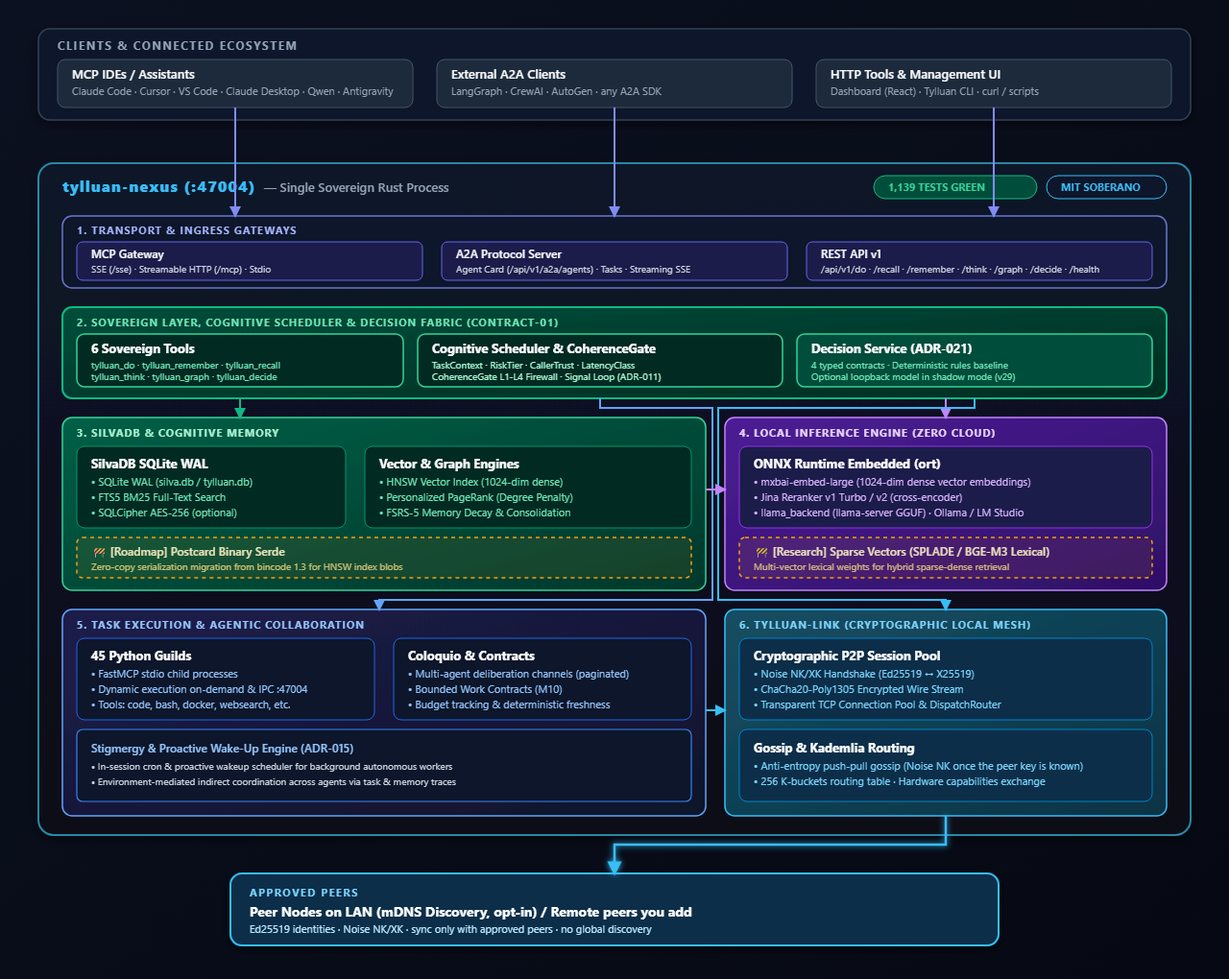
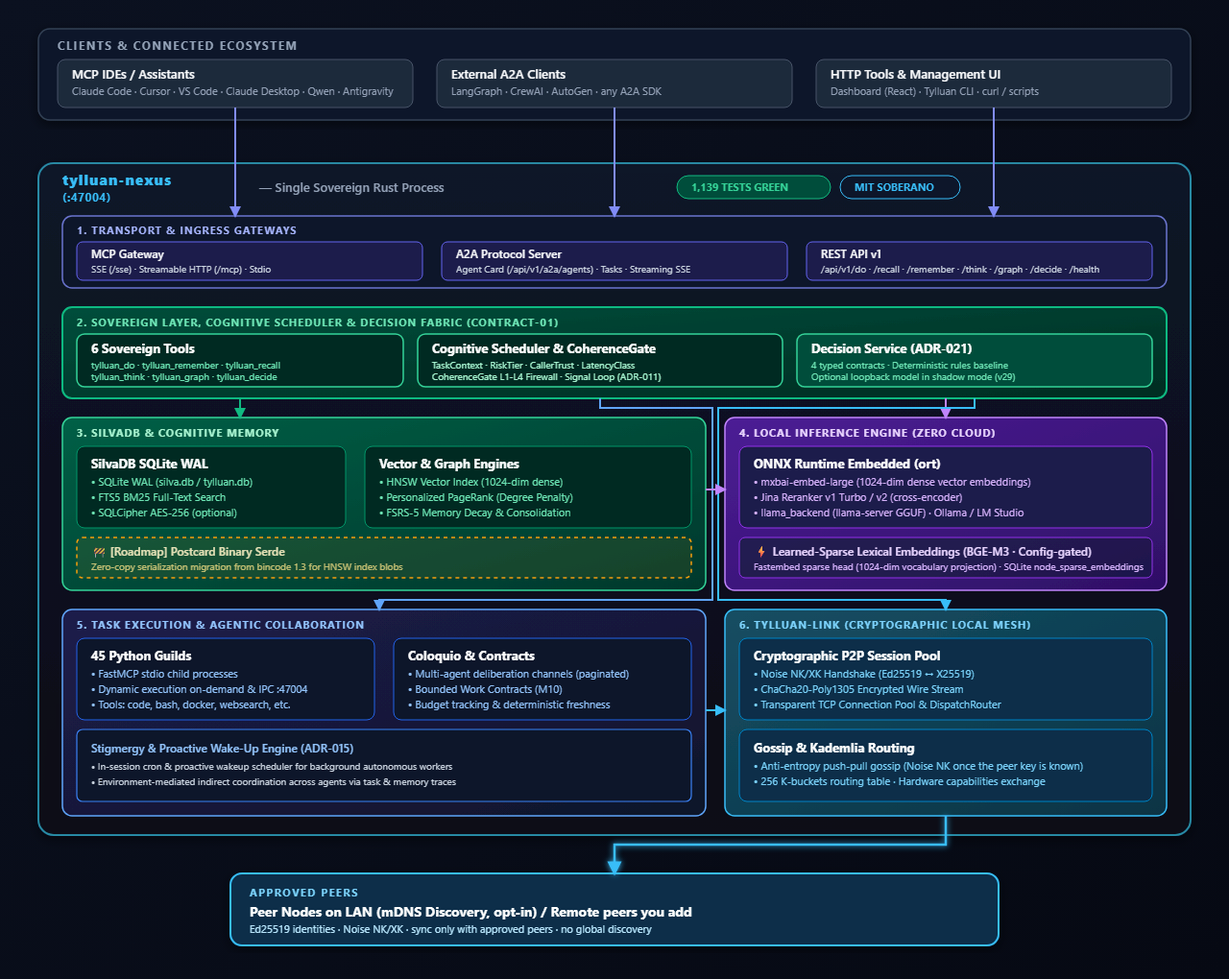
docs(diagrams): Sparse Vectors marked config-gated, PNG/SVG/interactive spec regenerated (G3)
Postcard Serde stays [Roadmap]. architecture.png regenerated to match the SVG. G5 arrow crossing the
nexus title is not resolved.

Claude-Session: https://claude.ai/code/session_01Gc82k4JYJCSQbgUupKZSrL

Changed region(s): [[0.5938, 0.5471, 0.9375, 0.6078], [0.5312, 0.152, 0.9375, 0.2127], [0.0312, 0.1824, 0.375, 0.2127]]

diff --git a/docs/assets/architecture_interactive.html b/docs/assets/architecture_interactive.html
@@ -4961,7 +4961,7 @@
     </div>
 
     <script id="archify-guided-views-data" type="application/json">[]</script>
-    <script id="archify-source-evidence-data" type="application/json">{"schemaVersion":1,"verified":true,"repository":{"url":"https://github.com/Forja-orca/tylluan","revision":"743a7069df6fac1baa28683ab21221e3b3f44823","shortRevision":"743a706"},"referenceCount":10,"nodes":{"auth_boundary":[{"path":"crates/tylluan-kernel/src/transport/http/auth.rs","label":"operator vs agent class","href":"https://github.com/Forja-orca/tylluan/blob/743a7069df6fac1baa28683ab21221e3b3f44823/crates/tylluan-kernel/src/transport/http/auth.rs"}],"tools6":[{"path":"crates/tylluan-kernel/src/transport/server/tools.rs","label":"all_tools()","href":"https://github.com/Forja-orca/tylluan/blob/743a7069df6fac1baa28683ab21221e3b3f44823/crates/tylluan-kernel/src/transport/server/tools.rs"}],"matcher":[{"path":"crates/tylluan-kernel/src/router/matcher.rs","line":160,"label":"GuildMatcher","href":"https://github.com/Forja-orca/tylluan/blob/743a7069df6fac1baa28683ab21221e3b3f44823/crates/tylluan-kernel/src/router/matcher.rs#L160"}],"decision_svc":[{"path":"crates/tylluan-kernel/src/router/decision/service.rs","line":85,"label":"DecisionService::decide","href":"https://github.com/Forja-orca/tylluan/blob/743a7069df6fac1baa28683ab21221e3b3f44823/crates/tylluan-kernel/src/router/decision/service.rs#L85"}],"guilds46":[{"path":"guilds/core/coloquio.py","label":"guilds/core/","href":"https://github.com/Forja-orca/tylluan/blob/743a7069df6fac1baa28683ab21221e3b3f44823/guilds/core/coloquio.py"}],"embed_engine":[{"path":"crates/tylluan-kernel/src/router/embeddings.rs","line":186,"label":"EmbeddingEngine","href":"https://github.com/Forja-orca/tylluan/blob/743a7069df6fac1baa28683ab21221e3b3f44823/crates/tylluan-kernel/src/router/embeddings.rs#L186"}],"inf_budget":[{"path":"crates/tylluan-kernel/src/memory/inference_budget.rs","label":"bounded queue + 503","href":"https://github.com/Forja-orca/tylluan/blob/743a7069df6fac1baa28683ab21221e3b3f44823/crates/tylluan-kernel/src/memory/inference_budget.rs"}],"sqlite_wal":[{"path":"crates/tylluan-kernel/src/memory/silva/graph.rs","label":"PageRank+FSRS","href":"https://github.com/Forja-orca/tylluan/blob/743a7069df6fac1baa28683ab21221e3b3f44823/crates/tylluan-kernel/src/memory/silva/graph.rs"}],"cap_registry":[{"path":"crates/tylluan-kernel/src/registry/capability_registry.rs","line":71,"label":"build_registry()","href":"https://github.com/Forja-orca/tylluan/blob/743a7069df6fac1baa28683ab21221e3b3f44823/crates/tylluan-kernel/src/registry/capability_registry.rs#L71"}],"gossip_dht":[{"path":"crates/tylluan-kernel/src/federation/permissions.rs","label":"per-peer, per-space ACL (deny-by-default)","href":"https://github.com/Forja-orca/tylluan/blob/743a7069df6fac1baa28683ab21221e3b3f44823/crates/tylluan-kernel/src/federation/permissions.rs"}]}}</script>
+    <script id="archify-source-evidence-data" type="application/json">{"schemaVersion":1,"verified":true,"repository":{"url":"https://github.com/Forja-orca/tylluan","revision":"0ac9dfb0791ebfac94db0b4798d7a7c434e517d2","shortRevision":"0ac9dfb"},"referenceCount":10,"nodes":{"auth_boundary":[{"path":"crates/tylluan-kernel/src/transport/http/auth.rs","label":"operator vs agent class","href":"https://github.com/Forja-orca/tylluan/blob/0ac9dfb0791ebfac94db0b4798d7a7c434e517d2/crates/tylluan-kernel/src/transport/http/auth.rs"}],"tools6":[{"path":"crates/tylluan-kernel/src/transport/server/tools.rs","label":"all_tools()","href":"https://github.com/Forja-orca/tylluan/blob/0ac9dfb0791ebfac94db0b4798d7a7c434e517d2/crates/tylluan-kernel/src/transport/server/tools.rs"}],"matcher":[{"path":"crates/tylluan-kernel/src/router/matcher.rs","line":160,"label":"GuildMatcher","href":"https://github.com/Forja-orca/tylluan/blob/0ac9dfb0791ebfac94db0b4798d7a7c434e517d2/crates/tylluan-kernel/src/router/matcher.rs#L160"}],"decision_svc":[{"path":"crates/tylluan-kernel/src/router/decision/service.rs","line":85,"label":"DecisionService::decide","href":"https://github.com/Forja-orca/tylluan/blob/0ac9dfb0791ebfac94db0b4798d7a7c434e517d2/crates/tylluan-kernel/src/router/decision/service.rs#L85"}],"guilds46":[{"path":"guilds/core/coloquio.py","label":"guilds/core/","href":"https://github.com/Forja-orca/tylluan/blob/0ac9dfb0791ebfac94db0b4798d7a7c434e517d2/guilds/core/coloquio.py"}],"embed_engine":[{"path":"crates/tylluan-kernel/src/router/embeddings.rs","line":186,"label":"EmbeddingEngine","href":"https://github.com/Forja-orca/tylluan/blob/0ac9dfb0791ebfac94db0b4798d7a7c434e517d2/crates/tylluan-kernel/src/router/embeddings.rs#L186"}],"inf_budget":[{"path":"crates/tylluan-kernel/src/memory/inference_budget.rs","label":"bounded queue + 503","href":"https://github.com/Forja-orca/tylluan/blob/0ac9dfb0791ebfac94db0b4798d7a7c434e517d2/crates/tylluan-kernel/src/memory/inference_budget.rs"}],"sqlite_wal":[{"path":"crates/tylluan-kernel/src/memory/silva/graph.rs","label":"PageRank+FSRS","href":"https://github.com/Forja-orca/tylluan/blob/0ac9dfb0791ebfac94db0b4798d7a7c434e517d2/crates/tylluan-kernel/src/memory/silva/graph.rs"}],"cap_registry":[{"path":"crates/tylluan-kernel/src/registry/capability_registry.rs","line":71,"label":"build_registry()","href":"https://github.com/Forja-orca/tylluan/blob/0ac9dfb0791ebfac94db0b4798d7a7c434e517d2/crates/tylluan-kernel/src/registry/capability_registry.rs#L71"}],"gossip_dht":[{"path":"crates/tylluan-kernel/src/federation/permissions.rs","label":"per-peer, per-space ACL (deny-by-default)","href":"https://github.com/Forja-orca/tylluan/blob/0ac9dfb0791ebfac94db0b4798d7a7c434e517d2/crates/tylluan-kernel/src/federation/permissions.rs"}]}}</script>
     <script id="archify-i18n-data" type="application/json">{"locale":"en","messages":{"viewer.kind.frontend":"Frontend","viewer.kind.backend":"Backend","viewer.kind.database":"Database","viewer.kind.cloud":"Cloud","viewer.kind.security":"Security","viewer.kind.messagebus":"Message bus","viewer.kind.external":"External","viewer.kind.neutral":"Neutral","viewer.kind.node":"Node","viewer.kind.start":"Start","viewer.kind.active":"Active","viewer.kind.waiting":"Waiting","viewer.kind.decision":"Decision","viewer.kind.success":"Success","viewer.kind.failure":"Failure","viewer.toolbar.actions":"Diagram actions","viewer.theme.toggle.title":"Toggle theme (T)","viewer.theme.toggle":"Toggle color theme","viewer.theme.dark":"Dark","viewer.theme.light":"Light","viewer.preset.choose.title":"Choose visual style (S cycles)","viewer.preset.choose":"Choose visual style","viewer.preset.style":"Style","viewer.preset.menu":"Visual style","viewer.preset.identity":"Visual identity","viewer.preset.cycles":"S cycles","viewer.preset.classic":"Classic","viewer.preset.classic.short":"Classic","viewer.preset.classic.hint":"Stable technical default","viewer.preset.flow":"Signal Flow","viewer.preset.flow.short":"Flow","viewer.preset.flow.hint":"Motion-forward presentation","viewer.preset.blueprint":"Blueprint","viewer.preset.blueprint.hint":"Engineering review","viewer.preset.editorial":"Editorial","viewer.preset.editorial.hint":"Publication and launch notes","viewer.preset.badge.signalFlow":"SIGNAL FLOW","viewer.preset.badge.blueprint":"BLUEPRINT / REV 01","viewer.preset.badge.editorial":"EDITORIAL / FIELD NOTE","viewer.preset.badge.editorialPlate":"ARCHIFY / PLATE 04","viewer.preset.current":"Visual style: {style}. Choose visual style","viewer.motion.live":"Live","viewer.motion.still":"Still","viewer.motion.pause":"Pause motion","viewer.motion.resume":"Resume motion","viewer.motion.reduced":"Motion paused by reduced-motion preference","viewer.motion.hidden":"Motion paused while this page is hidden","viewer.motion.yielding":"Pause motion; currently yielding to {owner}","viewer.motion.yielding.title":"Live preview enabled · yielding to {owner}","viewer.owner.story":"the guided story","viewer.owner.chapter":"the active chapter","viewer.owner.chapterPreview":"the chapter delta preview","viewer.owner.handoff":"the chapter handoff","viewer.owner.route":"Route Probe","viewer.owner.lens":"Semantic Lens","viewer.owner.relationship":"Relationship Preview","viewer.owner.intent":"Intent Trace","viewer.owner.focus":"semantic focus","viewer.owner.legend":"legend preview","viewer.owner.reader":"reader interaction","viewer.present.enter":"Enter presentation stage","viewer.present.enter.title":"Presentation stage (F)","viewer.present.exit":"Exit presentation stage","viewer.present.exit.title":"Exit presentation stage (F or Escape)","viewer.present.present":"Present","viewer.present.exit.label":"Exit","viewer.export.button":"Export","viewer.export.button.title":"Export diagram (E)","viewer.export.diagram":"Export diagram","viewer.export.menu":"Export","viewer.export.subtitle":"Portable, clean outputs","viewer.export.share":"Share","viewer.export.shareCard":"Share Card","viewer.export.routeShareCard":"Route Share Card","viewer.export.reachShareCard":"Reach Share Card","viewer.export.copyShareCard":"Copy Share Card","viewer.export.copyDiagram":"Copy diagram","viewer.export.clipboardPng":"PNG to clipboard","viewer.export.raster":"Raster images","viewer.export.image":"Image","viewer.export.lossless":"Lossless image","viewer.export.compact":"Compact image","viewer.export.modern":"Modern image","viewer.export.vectorMotion":"Vector and motion","viewer.export.vectorMotion.heading":"Vector \u0026 motion","viewer.export.editable":"Editable vector","viewer.export.motion6s":"6s motion","viewer.export.unsupported":"Not supported by this browser","viewer.export.clipboardUnsupported":"Clipboard image write not supported by this browser","viewer.export.clipboardUnsupported.period":"Clipboard image write not supported by this browser.","viewer.export.clipboardUnsupported.short":"Clipboard image write not supported in this browser.","viewer.export.motionUnavailable":"Motion capture unavailable in this browser","viewer.export.webmUnavailable":"WebM unavailable in this browser","viewer.export.failed":"Export failed: {message}","viewer.export.unknownVariant":"Unknown Share Card variant: {variant}","viewer.export.routeRequired":"Trace a route before exporting a Route Share Card","viewer.export.reachRequired":"Trace authored reach before exporting a Reach Share Card","viewer.export.unknown":"unknown","viewer.export.routeFailed":"Route Share Card export failed: {message}","viewer.export.reachFailed":"Reach Share Card export failed: {message}","viewer.export.copyFailed":"Copy failed: {message}","viewer.export.copiedPng":"Copied PNG to clipboard","viewer.export.copiedShare":"Copied Share Card","viewer.export.downloadedShare":"Downloaded Share Card","viewer.export.downloadedRoute":"Downloaded Route Share Card","viewer.export.downloadedReach":"Downloaded Reach Share Card","viewer.export.downloadedWebm":"Downloaded WebM","viewer.export.recording":"Recording 6 seconds of motion…","viewer.export.card.routeSummary.one":"Route: {source} → {target} · {count} directed hop","viewer.export.card.routeSummary.other":"Route: {source} → {target} · {count} directed hops","viewer.export.card.reachSummary":"Authored {direction} from {origin} · {nodes} · {links} · max {hops}","viewer.export.card.node.one":"{count} node","viewer.export.card.node.other":"{count} nodes","viewer.export.card.link.one":"{count} link","viewer.export.card.link.other":"{count} links","viewer.export.card.hop.one":"{count} hop","viewer.export.card.hop.other":"{count} hops","viewer.export.card.routeBadge":"ARCHIFY · ROUTE · {hops}","viewer.export.card.reachBadge":"ARCHIFY · {direction} REACH","viewer.export.card.defaultBadge":"ARCHIFY · {preset} · {theme}","viewer.export.direction.upstream":"Upstream","viewer.export.direction.downstream":"Downstream","viewer.export.error.canvasUnavailable":"Canvas unavailable for {label}","viewer.export.error.contextUnavailable":"2D canvas context unavailable for {label}","viewer.export.error.toBlobUnavailable":"canvas.toBlob unavailable for {label}","viewer.export.error.toBlobNull":"canvas.toBlob returned no data for {label}","viewer.export.error.variantsCombined":"Share Card variants cannot be combined","viewer.export.error.viewerState":"Share Card export could not remove temporary viewer state","viewer.export.error.routeState":"Route Card export could not preserve the resolved route safely","viewer.export.error.reachState":"Reach Card export could not preserve authored reach safely","viewer.export.error.webmRequirements":"WebM motion export requires a trace animation and browser MediaRecorder support","viewer.export.error.mediaRecorder":"MediaRecorder failed","viewer.export.error.emptyWebm":"MediaRecorder produced an empty WebM","viewer.export.error.webmBackground":"SVG background could not be loaded for WebM export","viewer.guided.region":"Guided diagram views","viewer.guided.previous":"Previous guided view","viewer.guided.previous.title":"Previous guided view ([)","viewer.guided.next":"Next guided view","viewer.guided.next.title":"Next guided view (])","viewer.guided.views":"Guided views","viewer.guided.explore":"Explore this system","viewer.guided.intro":"Step through curated paths without changing the source diagram.","viewer.guided.trail":"Story trail","viewer.guided.beat":"Beat","viewer.guided.nextBeat":"Next","viewer.guided.play":"Play guided story","viewer.guided.play.title":"Play guided story (P)","viewer.guided.pause":"Pause guided story","viewer.guided.pause.title":"Pause guided story (P)","viewer.guided.replay":"Replay guided story","viewer.guided.replay.title":"Replay guided story (P)","viewer.guided.playStory":"Play story","viewer.guided.pauseStory":"Pause","viewer.guided.replayStory":"Replay story","viewer.guided.motionUnavailable":"Story playback unavailable while motion is Still","viewer.guided.enableMotion":"Switch motion to Live to play the guided story","viewer.guided.selectBeatLink":"Select a Story Beat to copy its exact link","viewer.guided.copyMoment":"Copy moment","viewer.guided.momentCopied":"Moment link copied","viewer.guided.momentCopyFailed":"Could not copy story moment link","viewer.guided.copied":"Copied","viewer.guided.copyFailed":"Copy failed","viewer.guided.showAll":"Show all","viewer.guided.showAll.aria":"Show entire diagram","viewer.guided.chapters":"Story chapters","viewer.guided.storyTrail":"Story trail for {label}: {count} beats","viewer.guided.chapter.open":"Open chapter {index} of {total}: {label}, {count} stops","viewer.guided.chapter.current":"Current chapter {index} of {total}: {label}, {count} stops","viewer.guided.chapter.selectedNodes":"{count} selected nodes","viewer.guided.chapter.stops":"{count} stops","viewer.guided.chapter.stop.one":"{count} stop","viewer.guided.chapter.stop.other":"{count} stops","viewer.guided.chapter.current.title":"{label} — current chapter, {count} stops","viewer.guided.chapter.delta.expanded":"{stay} stay, {enter} enter, {leave} leave","viewer.guided.chapter.delta.aria":"Open chapter {index} of {total}: {label}. Chapter focus delta: {delta}","viewer.guided.chapter.delta.title":"{label} — {delta} chapter focus","viewer.guided.handoff":"{from} → {to} · via {label}","viewer.guided.share.chapter":"Chapter {index} / {total}","viewer.guided.share.initial":"Chapter 01 / 01","viewer.guided.share.default":"Guided chapter","viewer.guided.state.ready":"Ready","viewer.guided.state.playing":"Playing","viewer.guided.state.settled":"Settled","viewer.guided.state.paused":"Paused","viewer.guided.state.pinned":"Pinned","viewer.guided.state.still":"Still","viewer.guided.share.step":"Step {index} / {total} · {label}","viewer.guided.share.staticMoment":"{step} · Static moment","viewer.guided.share.complete":"{count} steps complete · {note}","viewer.guided.share.settled":"Path settled for reading.","viewer.guided.share.staticPath":"{count} steps · Static path","viewer.guided.share.ready":"{count} steps · Ready","viewer.guided.share.aria":"{state} chapter {index} of {total}: {label}. {beat}. {route}","viewer.guided.beat.start":"Beat {index} / {total} · {label} · starting point","viewer.guided.beat.forward":"Beat {index} / {total} · {from} → {to}","viewer.guided.beat.reverse":"Beat {index} / {total} · {from} → {to} · reverse authored link","viewer.guided.beat.multiple":"Beat {index} / {total} · {from} ⇄ {to} · {count} authored links","viewer.guided.beat.group":"Beat {index} / {total} · {from} · {to} · grouped · no direct link","viewer.guided.beat.aria.prefix":"Story beat {index} of {total}: {label}. ","viewer.guided.beat.aria.start":"Starting point.","viewer.guided.beat.aria.forward":"From {from} through one authored forward relationship.","viewer.guided.beat.aria.reverse":"From {from}; the authored relationship points from {to} to {from}.","viewer.guided.beat.aria.multiple":"From {from} through {count} authored relationships; shown without arbitrary motion.","viewer.guided.beat.aria.group":"Grouped from {from} with no direct authored relationship.","viewer.guided.caption.start":"Starting point","viewer.guided.caption.grouped":"Grouped transition · no direct authored link","viewer.guided.caption.more":" +{count} more","viewer.guided.caption.reverse":"Reverse authored relationship","viewer.guided.caption.relationships":"{count} authored relationships","viewer.guided.caption.relationship":"Authored relationship","viewer.guided.caption.direction":"authored direction: {from} → {to}","viewer.guided.caption.starting":"Authored starting point","viewer.guided.beatLink":"Copy link to current story moment: Beat {index} of {total}: {label}","viewer.guided.noStory":"This diagram has no authored guided story.","viewer.guide.eyebrow":"Diagram guide","viewer.guide.close":"Close diagram guide","viewer.guide.inspecting":"Inspecting compiled semantics","viewer.guide.actions":"Diagram exploration actions","viewer.guide.find":"Find any node","viewer.guide.find.hint":"Search labels, responsibilities, kinds, and stable IDs.","viewer.guide.route":"Trace a route","viewer.guide.route.aria":"Trace a directed route","viewer.guide.route.hint":"Ask how two semantic nodes connect in authored direction.","viewer.guide.map":"See the whole system","viewer.guide.map.hint":"Open Semantic Radar with a live viewport and stable nodes.","viewer.guide.lens":"Compare semantic kinds","viewer.guide.lens.hint":"Count roles, reveal their traffic, and compare direct authored links.","viewer.guide.story":"Play the guided story","viewer.guide.story.hint":"Walk the authored chapters and real relationships.","viewer.guide.present":"Enter Presentation Stage","viewer.guide.present.hint":"Give the live diagram the viewport without changing export.","viewer.guide.shortcuts":"Additional keyboard shortcuts","viewer.guide.shortcut.export":"Export","viewer.guide.shortcut.theme":"Theme","viewer.guide.shortcut.style":"Style","viewer.guide.shortcut.reset":"Reset","viewer.guide.shortcut.zoomIn":"Zoom in","viewer.guide.shortcut.zoomOut":"Zoom out","viewer.guide.shortcut.close":"Close","viewer.guide.facts":"{nodes} · {relationships} · {views}","viewer.guide.fact.node.one":"{count} semantic node","viewer.guide.fact.node.other":"{count} semantic nodes","viewer.guide.fact.relationship.one":"{count} relationship","viewer.guide.fact.relationship.other":"{count} relationships","viewer.guide.fact.view.one":"{count} guided view","viewer.guide.fact.view.other":"{count} guided views","viewer.guide.story.available.one":"Walk {count} authored chapter and its real relationships.","viewer.guide.story.available.other":"Walk {count} authored chapters and their real relationships.","viewer.guide.story.unavailable":"No authored guided story in this diagram.","viewer.guide.open":"Open diagram guide","viewer.guide.noStory":"This diagram has no authored guided story.","viewer.finder.title":"Find a node","viewer.finder.close":"Close node finder","viewer.finder.placeholder":"Search labels or IDs","viewer.finder.search":"Search diagram nodes","viewer.finder.results":"Diagram nodes","viewer.finder.empty":"No matching nodes","viewer.finder.result.focus":"Focus {label}","viewer.finder.result.routeStart":"Choose {label} as route start","viewer.finder.result.routeTarget":"Choose {label} as route destination, {links}","viewer.finder.status.empty":"No matching nodes","viewer.finder.status.count.one":"{count} matching node","viewer.finder.status.count.other":"{count} matching nodes","viewer.finder.noun.nodes":"nodes","viewer.finder.link.one":"{count} link","viewer.finder.link.other":"{count} links","viewer.finder.result.focus.one":"Focus {label}, {count} related connection","viewer.finder.result.focus.other":"Focus {label}, {count} related connections","viewer.finder.status.filtered":"{visible} of {available} {noun}","viewer.finder.status.all":"{available} {noun}","viewer.passport.eyebrow":"Semantic passport","viewer.passport.metadata":"Node metadata","viewer.passport.evidence":"Verified source evidence","viewer.passport.verified":"Verified source","viewer.passport.reach":"Authored reach","viewer.passport.reach.trace":"Trace authored reachability","viewer.passport.upstream":"Upstream","viewer.passport.downstream":"Downstream","viewer.passport.upstream.trace":"Trace upstream authored reachability","viewer.passport.downstream.trace":"Trace downstream authored reachability","viewer.passport.close":"Close semantic passport","viewer.passport.copy":"Copy link","viewer.passport.copy.focus":"Copy link to focused node","viewer.passport.relations":"Relations","viewer.passport.relations.show":"Show connected relationships","viewer.passport.relations.hide":"Hide connected relationships","viewer.passport.relations.list":"Connected relationships","viewer.passport.copyRelation":"Copy relation","viewer.passport.copyNode":"Copy node","viewer.passport.copyPinned":"Copy link to pinned relationship","viewer.passport.copySource":"Copy link to source node","viewer.passport.copy.focused.success":"Focused node link copied","viewer.passport.copy.pinned.success":"Pinned relationship link copied","viewer.passport.copy.focused.failed":"Could not copy focused node link","viewer.passport.copy.pinned.failed":"Could not copy pinned relationship link","viewer.passport.relationship.none":"No connected relationships","viewer.passport.relationship.count.one":"{count} relation","viewer.passport.relationship.count.other":"{count} relations","viewer.passport.relationship.show.one":"Show {count} connected relationship","viewer.passport.relationship.show.other":"Show {count} connected relationships","viewer.passport.relationship.summary":"{out} outgoing · {in} incoming{loops}","viewer.passport.relationship.loops":" · {count} loop","viewer.passport.relationship.explorer":"Direct relationship explorer","viewer.passport.relationship.help":"Use arrow keys to explore relationships. Press Enter or Space to pin details; Escape clears.","viewer.passport.relationship.loopsBack":"loops back","viewer.passport.relationship.connectsTo":"connects to","viewer.passport.relationship.connectsFrom":"connects from","viewer.passport.relationship.pinned":"Pinned relationship · {from} → {to} · {label}","viewer.passport.relationship.inspect":"Inspect relationship {index} of {total}: {from} to {to}, {label}. Press Enter for details.","viewer.passport.relationship.group.out":"Outgoing","viewer.passport.relationship.group.in":"Incoming","viewer.passport.relationship.group.loop":"Self loops","viewer.passport.relationship.row":"{group}: {relationship}, {neighbor}","viewer.passport.relationship.direction.out":"OUT →","viewer.passport.relationship.direction.in":"← IN","viewer.passport.relationship.direction.loop":"LOOP","viewer.passport.sourceCount.one":"{count} verified source reference","viewer.passport.sourceCount.other":"{count} verified source references","viewer.passport.sourceMarker":"SRC","viewer.passport.beacon.one":"{count} verified source; focus this node to inspect","viewer.passport.beacon.other":"{count} verified sources; focus this node to inspect","viewer.passport.repository.open":"Open verified repository revision {revision}","viewer.passport.source.open":"Open verified source {path} at revision {revision}","viewer.passport.source.openLink":"Open ↗","viewer.passport.reach.upstream.one":"Trace {count} upstream authored node","viewer.passport.reach.upstream.other":"Trace {count} upstream authored nodes","viewer.passport.reach.downstream.one":"Trace {count} downstream authored node","viewer.passport.reach.downstream.other":"Trace {count} downstream authored nodes","viewer.passport.reach.noUpstream":"No upstream authored nodes","viewer.passport.reach.noDownstream":"No downstream authored nodes","viewer.passport.reach.status":"{direction} · {nodes} nodes · {links} links · max {hops} hops","viewer.route.eyebrow":"Route probe","viewer.route.start":"Choose a start node","viewer.route.start.find":"Find start","viewer.route.start.find.aria":"Find a route start","viewer.route.copy":"Copy link","viewer.route.copy.aria":"Copy link to traced route","viewer.route.clear":"Clear","viewer.route.clear.aria":"Clear route probe","viewer.route.traced":"Traced route","viewer.route.pickTwo":"Pick two semantic nodes on the diagram","viewer.route.pickOne":"Pick a semantic node on the diagram","viewer.route.controls":"Route journey controls","viewer.route.previous":"Previous route position","viewer.route.play":"Play route journey","viewer.route.pause":"Pause route journey","viewer.route.replay":"Replay route journey","viewer.route.next":"Next route position","viewer.route.journey":"Journey","viewer.route.pause.label":"Pause","viewer.route.replay.label":"Replay","viewer.route.overview":"Overview","viewer.route.overview.aria":"Show complete route overview","viewer.route.instructions":"Choose the source, then the destination. Direction matters.","viewer.route.destination":"Choose a destination from {label}","viewer.route.destination.find":"Find target","viewer.route.destination.find.aria":"Find a reachable route destination","viewer.route.differentDestination":"Choose a different destination","viewer.route.distinct":"A route needs two distinct semantic nodes.","viewer.route.unreachable":"No directed route to {label}","viewer.route.unreachable.detail":"{target} is not reachable from {source}. Pick a highlighted destination.","viewer.route.start.instructions":"Select the source. The next step will reveal only directed destinations.","viewer.route.copy.success":"Traced route link copied","viewer.route.copy.failed":"Could not copy traced route link","viewer.route.position":"Route position {index} of {total}: {label}","viewer.route.step":"Step {index} of {total} · {phase} · {label}","viewer.route.motionRequired":"Automatic journey requires Live motion","viewer.route.trigger.clear":"Clear traced route","viewer.route.overview.status":"{nodes} · {hops} · shortest authored route","viewer.route.overview.node.one":"{count} node","viewer.route.overview.node.other":"{count} nodes","viewer.route.overview.hop.one":"{count} directed hop","viewer.route.overview.hop.other":"{count} directed hops","viewer.route.phase.playing":"Playing","viewer.route.phase.complete":"Complete","viewer.route.phase.inspecting":"Inspecting","viewer.route.destination.count.one":"{count} directed destination available. Pick a highlighted node.","viewer.route.destination.count.other":"{count} directed destinations available. Pick a highlighted node.","viewer.route.noOutgoing":"No outgoing route starts here. Clear and choose another source.","viewer.route.result.title":"{source} to {target}","viewer.route.finder.source.title":"Choose route start","viewer.route.finder.source.placeholder":"Search route sources","viewer.route.finder.source.empty":"No matching route sources","viewer.route.finder.source.results":"Nodes that can start a route","viewer.route.finder.source.noun":"route sources","viewer.route.finder.source.badge":"start","viewer.route.finder.target.title":"Destination from {label}","viewer.route.finder.target.placeholder":"Search reachable destinations","viewer.route.finder.target.empty":"No matching reachable destinations","viewer.route.finder.target.results":"Reachable route destinations","viewer.route.finder.target.noun":"reachable destinations","viewer.route.hop.one":"{count} hop","viewer.route.hop.other":"{count} hops","viewer.lens.eyebrow":"Semantic lens","viewer.lens.title":"Compare system roles","viewer.lens.close":"Close semantic lens","viewer.lens.instruction":"Choose up to two semantic kinds. One reveals its real traffic; two compare only direct authored relationships.","viewer.lens.kinds":"Semantic kinds","viewer.lens.choose":"Choose a kind to inspect its nodes and touching relationships.","viewer.lens.copy":"Copy link to semantic lens","viewer.lens.clear":"Clear semantic lens","viewer.lens.open":"Open semantic lens","viewer.lens.openActive":"Open active semantic lens","viewer.lens.legend":"Semantic legend","viewer.lens.legend.inspect.one":"Inspect {label}, {count} node","viewer.lens.legend.inspect.other":"Inspect {label}, {count} nodes","viewer.lens.kind.count.one":"{label}, {count} node","viewer.lens.kind.count.other":"{label}, {count} nodes","viewer.lens.compare.one":"{first} → {second}: {forward} · {second} → {first}: {reverse} · {count} direct relationship","viewer.lens.compare.other":"{first} → {second}: {forward} · {second} → {first}: {reverse} · {count} direct relationships","viewer.lens.single":"{nodes} · {relationships} · connected peers remain visible","viewer.lens.node.one":"{count} {label} node","viewer.lens.node.other":"{count} {label} nodes","viewer.lens.relationship.one":"{count} touching relationship","viewer.lens.relationship.other":"{count} touching relationships","viewer.radar.title":"Semantic radar","viewer.radar.building":"Building overview","viewer.radar.openFull":"Open full semantic radar","viewer.radar.open":"Open radar","viewer.radar.close":"Close semantic radar","viewer.radar.surface":"Diagram overview. Click a node to focus it, or use arrow keys to pan.","viewer.radar.click":"Click node","viewer.radar.drag":"Drag to pan","viewer.radar.space":"Semantic radar needs more MAP space.","viewer.radar.nodes":"Semantic diagram radar nodes","viewer.radar.focus":"Focus {label} from Semantic Radar","viewer.radar.status":"{count} nodes · {viewport}","viewer.radar.fullMap":"{count} nodes · full map","viewer.radar.compacted":"Radar compacted to avoid covering the Semantic Passport or MAP controls.","viewer.radar.cancelWaiting":"Cancel semantic radar waiting for more MAP space","viewer.radar.needsSpace":"Semantic radar needs more visible MAP space","viewer.radar.viewport.full":"full map","viewer.radar.viewport.width":"{percent}% width","viewer.radar.viewport.scale":"{percent}% viewport","viewer.nav.controls":"Diagram view controls","viewer.nav.route":"Trace a directed route","viewer.nav.route.title":"Trace route (R)","viewer.nav.route.short":"PATH","viewer.nav.radar":"Open semantic radar","viewer.nav.radar.title":"Semantic radar (M)","viewer.nav.radar.short":"MAP","viewer.nav.lens":"Open semantic lens","viewer.nav.lens.title":"Semantic lens (L)","viewer.nav.lens.short":"LENS","viewer.nav.find":"Find a node","viewer.nav.find.title":"Find a node (/)","viewer.nav.guide":"Open diagram guide","viewer.nav.guide.title":"Diagram guide (?)","viewer.nav.zoomOut":"Zoom out","viewer.nav.zoomOut.title":"Zoom out (-)","viewer.nav.reset":"Reset diagram view","viewer.nav.reset.title":"Reset view (0)","viewer.nav.read":"READ","viewer.nav.zoomIn":"Zoom in","viewer.nav.zoomIn.title":"Zoom in (+)","viewer.nav.camera":"{hint}. Reset diagram view","viewer.nav.camera.title":"{semantic}{hint} · reset view (0)","viewer.nav.camera.semantic":"Semantic camera active · ","viewer.nav.level.map":"MAP","viewer.nav.level.read":"READ","viewer.nav.level.full":"FULL","viewer.nav.level.auto":"AUTO","viewer.nav.detail.map":"Zoom in to reveal relationship labels and node context","viewer.nav.detail.read":"Zoom in again to reveal tags and annotations","viewer.nav.detail.full":"Full diagram detail","viewer.intent.summary":"{label}. {out} outgoing, {in} incoming{loops}. {total} connections. Press Enter for details.","viewer.intent.loops":", {count} self loop","viewer.common.copied":"Copied","viewer.common.copyFailed":"Copy failed","viewer.common.copyLink":"Copy link","viewer.common.clear":"Clear","viewer.common.close":"Close"}}</script>
     <div class="guided-views no-print" id="guided-views" hidden aria-label="Guided diagram views">
       <button id="guided-view-prev" type="button" aria-label="Previous guided view" title="Previous guided view ([)">&#8592;</button>

diff --git a/scripts/generate_architecture_svg.py b/scripts/generate_architecture_svg.py
@@ -107,15 +107,16 @@ def generate_svg():
     <rect x="40" y="170" width="1200" height="700" rx="16" fill="url(#nexus-grad)" stroke="#38bdf8" stroke-width="2" stroke-opacity="0.6"/>
     <rect x="40" y="170" width="1200" height="700" rx="16" fill="none" stroke="#34d399" stroke-width="1" stroke-opacity="0.3"/>
     
-    <text x="65" y="200" fill="#38bdf8" font-size="16" font-weight="800" letter-spacing="1">tylluan-nexus (:47004)</text>
-    <text x="245" y="200" fill="#64748b" font-size="13" font-weight="500">— Single Sovereign Rust Process</text>
+    <text x="65" y="193" fill="#38bdf8" font-size="15" font-weight="800" letter-spacing="1">tylluan-nexus</text>
+    <text x="65" y="210" fill="#38bdf8" font-size="12" font-weight="700" letter-spacing="0.5">(:47004)</text>
+    <text x="270" y="200" fill="#94a3b8" font-size="13" font-weight="500">— Single Sovereign Rust Process</text>
     
-    <!-- Badges -->
-    <rect x="910" y="183" width="170" height="24" rx="12" fill="#064e3b" stroke="#10b981" stroke-width="1"/>
-    <text x="925" y="199" fill="#34d399" font-size="11" font-weight="700">1,093 TESTS GREEN</text>
+    <!-- Badges (positioned between Arrow 2 at 640 and Arrow 3 at 1035 for clean clearance) -->
+    <rect x="705" y="183" width="160" height="24" rx="12" fill="#064e3b" stroke="#10b981" stroke-width="1"/>
+    <text x="720" y="199" fill="#34d399" font-size="11" font-weight="700">1,139 TESTS GREEN</text>
     
-    <rect x="1090" y="183" width="125" height="24" rx="12" fill="#0f172a" stroke="#38bdf8" stroke-width="1"/>
-    <text x="1105" y="199" fill="#38bdf8" font-size="11" font-weight="700">MIT SOBERANO</text>
+    <rect x="875" y="183" width="125" height="24" rx="12" fill="#0f172a" stroke="#38bdf8" stroke-width="1"/>
+    <text x="890" y="199" fill="#38bdf8" font-size="11" font-weight="700">MIT SOBERANO</text>
 
     <!-- SECTION 1: INGRESS & TRANSPORT -->
     <g id="ingress-sec">
@@ -155,11 +156,11 @@ def generate_svg():
       <text x="450" y="384" fill="#a7f3d0" font-size="10">TaskContext · RiskTier · CallerTrust · LatencyClass</text>
       <text x="450" y="396" fill="#a7f3d0" font-size="10">CoherenceGate L1-L4 Firewall · Signal Loop (ADR-011)</text>
 
-      <!-- Decision Fabric (ADR-018) -->
+      <!-- Decision Service (ADR-021) -->
       <rect x="830" y="348" width="370" height="55" rx="8" fill="#064e3b" stroke="#34d399" stroke-width="1.5"/>
-      <text x="845" y="368" fill="#ffffff" font-size="13" font-weight="700">Decision Fabric (ADR-018)</text>
-      <text x="845" y="384" fill="#6ee7b7" font-size="10">DecisionProvider trait · Deterministic rules baseline</text>
-      <text x="845" y="396" fill="#6ee7b7" font-size="10">Deterministic rules provider: choice · score</text>
+      <text x="845" y="368" fill="#ffffff" font-size="13" font-weight="700">Decision Service (ADR-021)</text>
+      <text x="845" y="384" fill="#6ee7b7" font-size="10">4 typed contracts · Deterministic rules baseline</text>
+      <text x="845" y="396" fill="#6ee7b7" font-size="10">Optional loopback model in shadow mode (v29)</text>
     </g>
 
     <!-- SECTION 3: SILVADB (LEFT) & INFERENCE (RIGHT) -->
@@ -195,10 +196,10 @@ def generate_svg():
       <text x="785" y="522" fill="#d8b4fe" font-size="11">• Jina Reranker v1 Turbo / v2 (cross-encoder)</text>
       <text x="785" y="538" fill="#d8b4fe" font-size="11">• llama_backend (llama-server GGUF) · Ollama / LM Studio</text>
 
-      <!-- Roadmap: Sparse Vectors (Translucent) -->
-      <rect x="770" y="560" width="430" height="42" rx="6" fill="#f59e0b" fill-opacity="0.08" stroke="#f59e0b" stroke-width="1.5" stroke-dasharray="4 4"/>
-      <text x="785" y="579" fill="#fef3c7" fill-opacity="0.9" font-size="12" font-weight="600">🚧 [Research] Sparse Vectors (SPLADE / BGE-M3 Lexical)</text>
-      <text x="785" y="594" fill="#fde68a" fill-opacity="0.75" font-size="10">Multi-vector lexical weights for hybrid sparse-dense retrieval</text>
+      <!-- Delivered / Config-gated: Learned-Sparse Lexical Embeddings -->
+      <rect x="770" y="560" width="430" height="42" rx="6" fill="#1e1b4b" fill-opacity="0.9" stroke="#9333ea" stroke-width="1"/>
+      <text x="785" y="579" fill="#e9d5ff" font-size="12" font-weight="600">⚡ Learned-Sparse Lexical Embeddings (BGE-M3 · Config-gated)</text>
+      <text x="785" y="594" fill="#d8b4fe" font-size="10">Fastembed sparse head (1024-dim vocabulary projection) · SQLite node_sparse_embeddings</text>
     </g>
 
     <!-- SECTION 4: EXECUTION & GUILDS (LEFT) & FEDERATION MESH (RIGHT) -->
@@ -268,16 +269,19 @@ def generate_svg():
   <!-- Sovereign to Memory (Green) -->
   <path d="M 250 415 L 250 435" stroke="#10b981" stroke-width="2" fill="none" marker-end="url(#arr-green)"/>
   
-  <!-- Scheduler & Decision Fabric to Execution (Blue) -->
-  <path d="M 625 415 L 625 635" stroke="#60a5fa" stroke-width="2" fill="none" marker-end="url(#arr-blue)"/>
+  <!-- Sovereign to Inference (Purple) -->
+  <path d="M 985 415 L 985 435" stroke="#c084fc" stroke-width="2" fill="none" marker-end="url(#arr-purple)"/>
 
-  <!-- Decision Fabric to Mesh Dispatch (Cyan) -->
-  <path d="M 1015 415 L 1015 635" stroke="#38bdf8" stroke-width="2" fill="none" marker-end="url(#arr-cyan)"/>
+  <!-- Scheduler & Decision Service to Execution via central corridor (Blue) -->
+  <path d="M 625 415 L 625 425 L 742 425 L 742 625 L 395 625 L 395 635" stroke="#60a5fa" stroke-width="2" fill="none" marker-end="url(#arr-blue)"/>
+
+  <!-- Decision Service to Mesh Dispatch via central corridor (Cyan) -->
+  <path d="M 1015 415 L 1015 425 L 748 425 L 748 625 L 985 625 L 985 635" stroke="#38bdf8" stroke-width="2" fill="none" marker-end="url(#arr-cyan)"/>
 
   <!-- Memory <-> Inference (Purple) -->
-  <path d="M 735 525 L 755 525" stroke="#c084fc" stroke-width="2" fill="none" marker-end="url(#arr-purple)"/>
+  <path d="M 735 510 L 755 510" stroke="#c084fc" stroke-width="2" fill="none" marker-end="url(#arr-purple)"/>
 
-  <!-- Memory <-> Mesh (Cyan) -->
+  <!-- Execution <-> Mesh (Cyan) -->
   <path d="M 735 740 L 755 740" stroke="#38bdf8" stroke-width="2" fill="none" marker-end="url(#arr-cyan)"/>
 
   <!-- Mesh to Remote Peers (Cyan) -->
